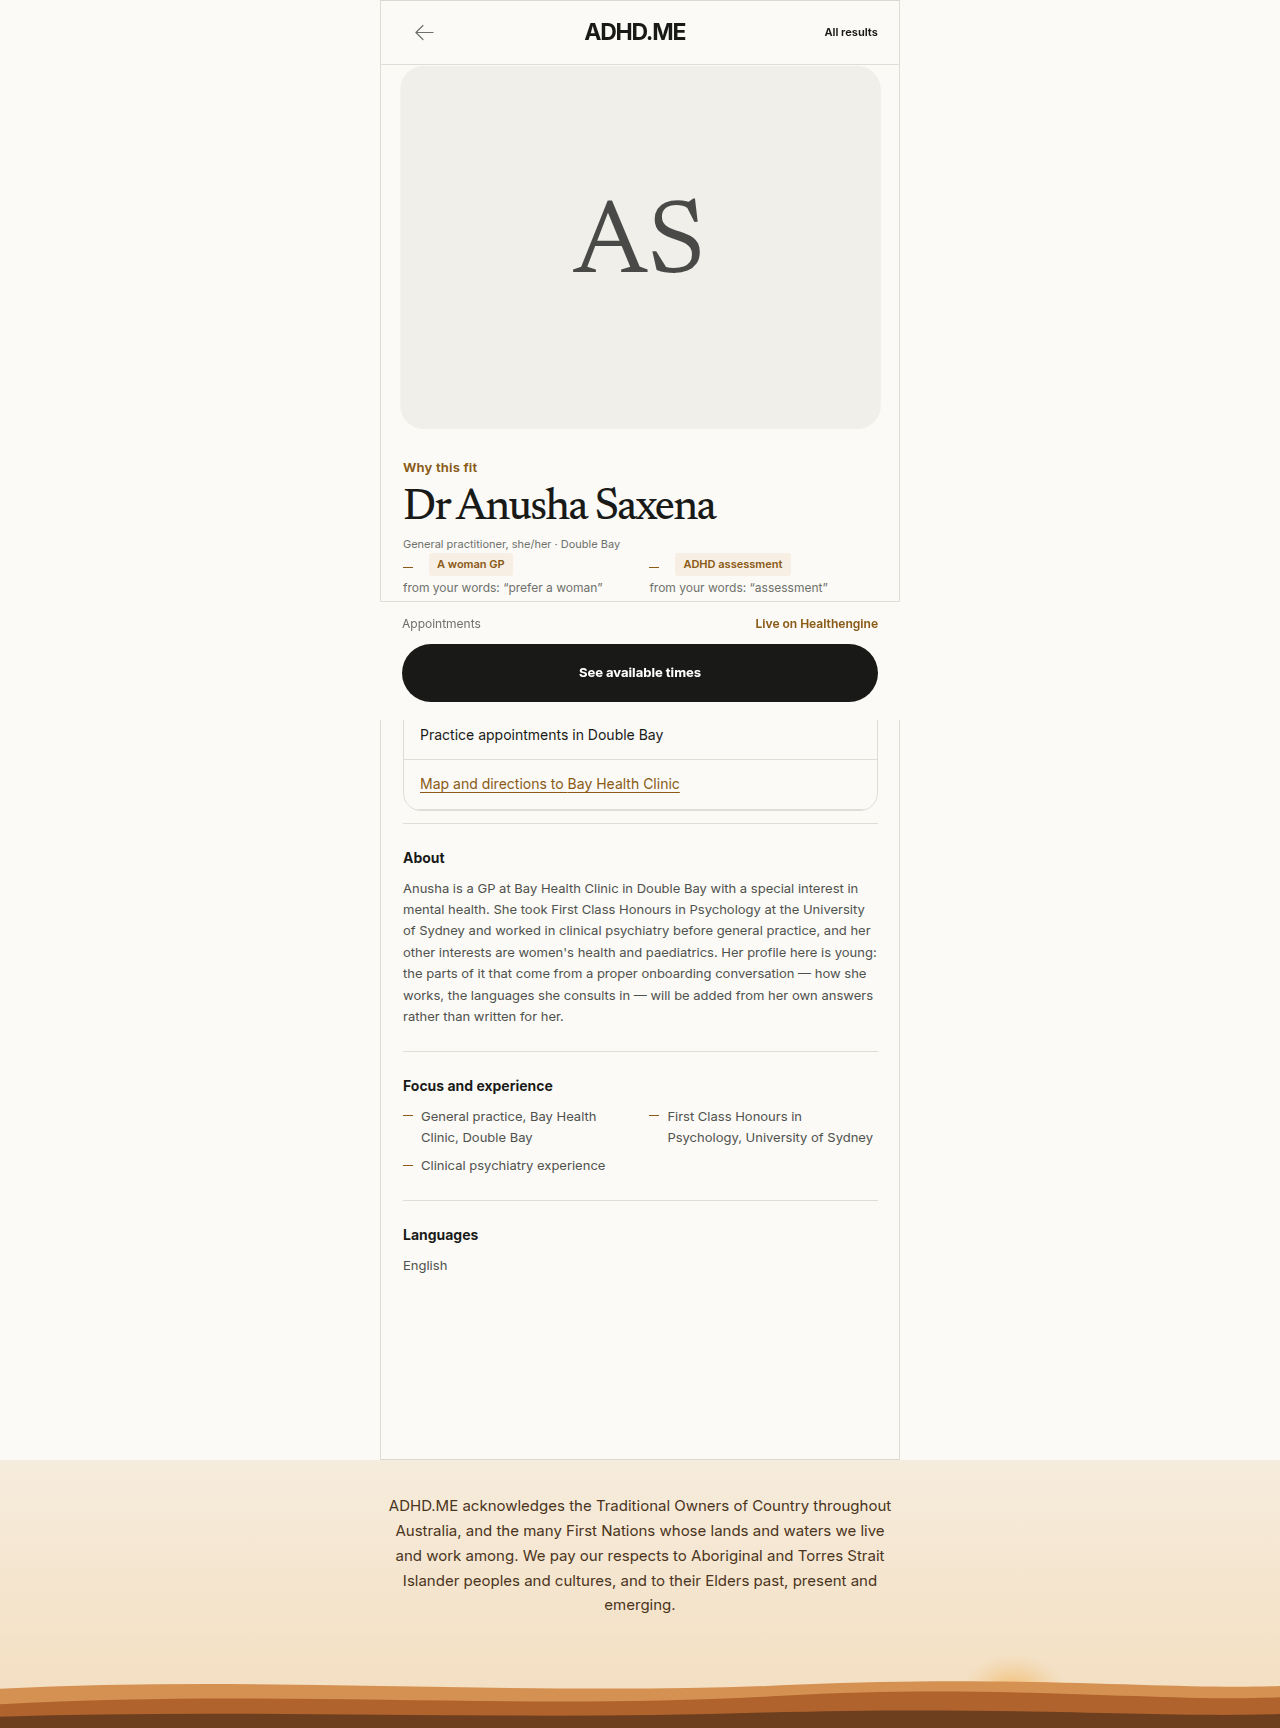
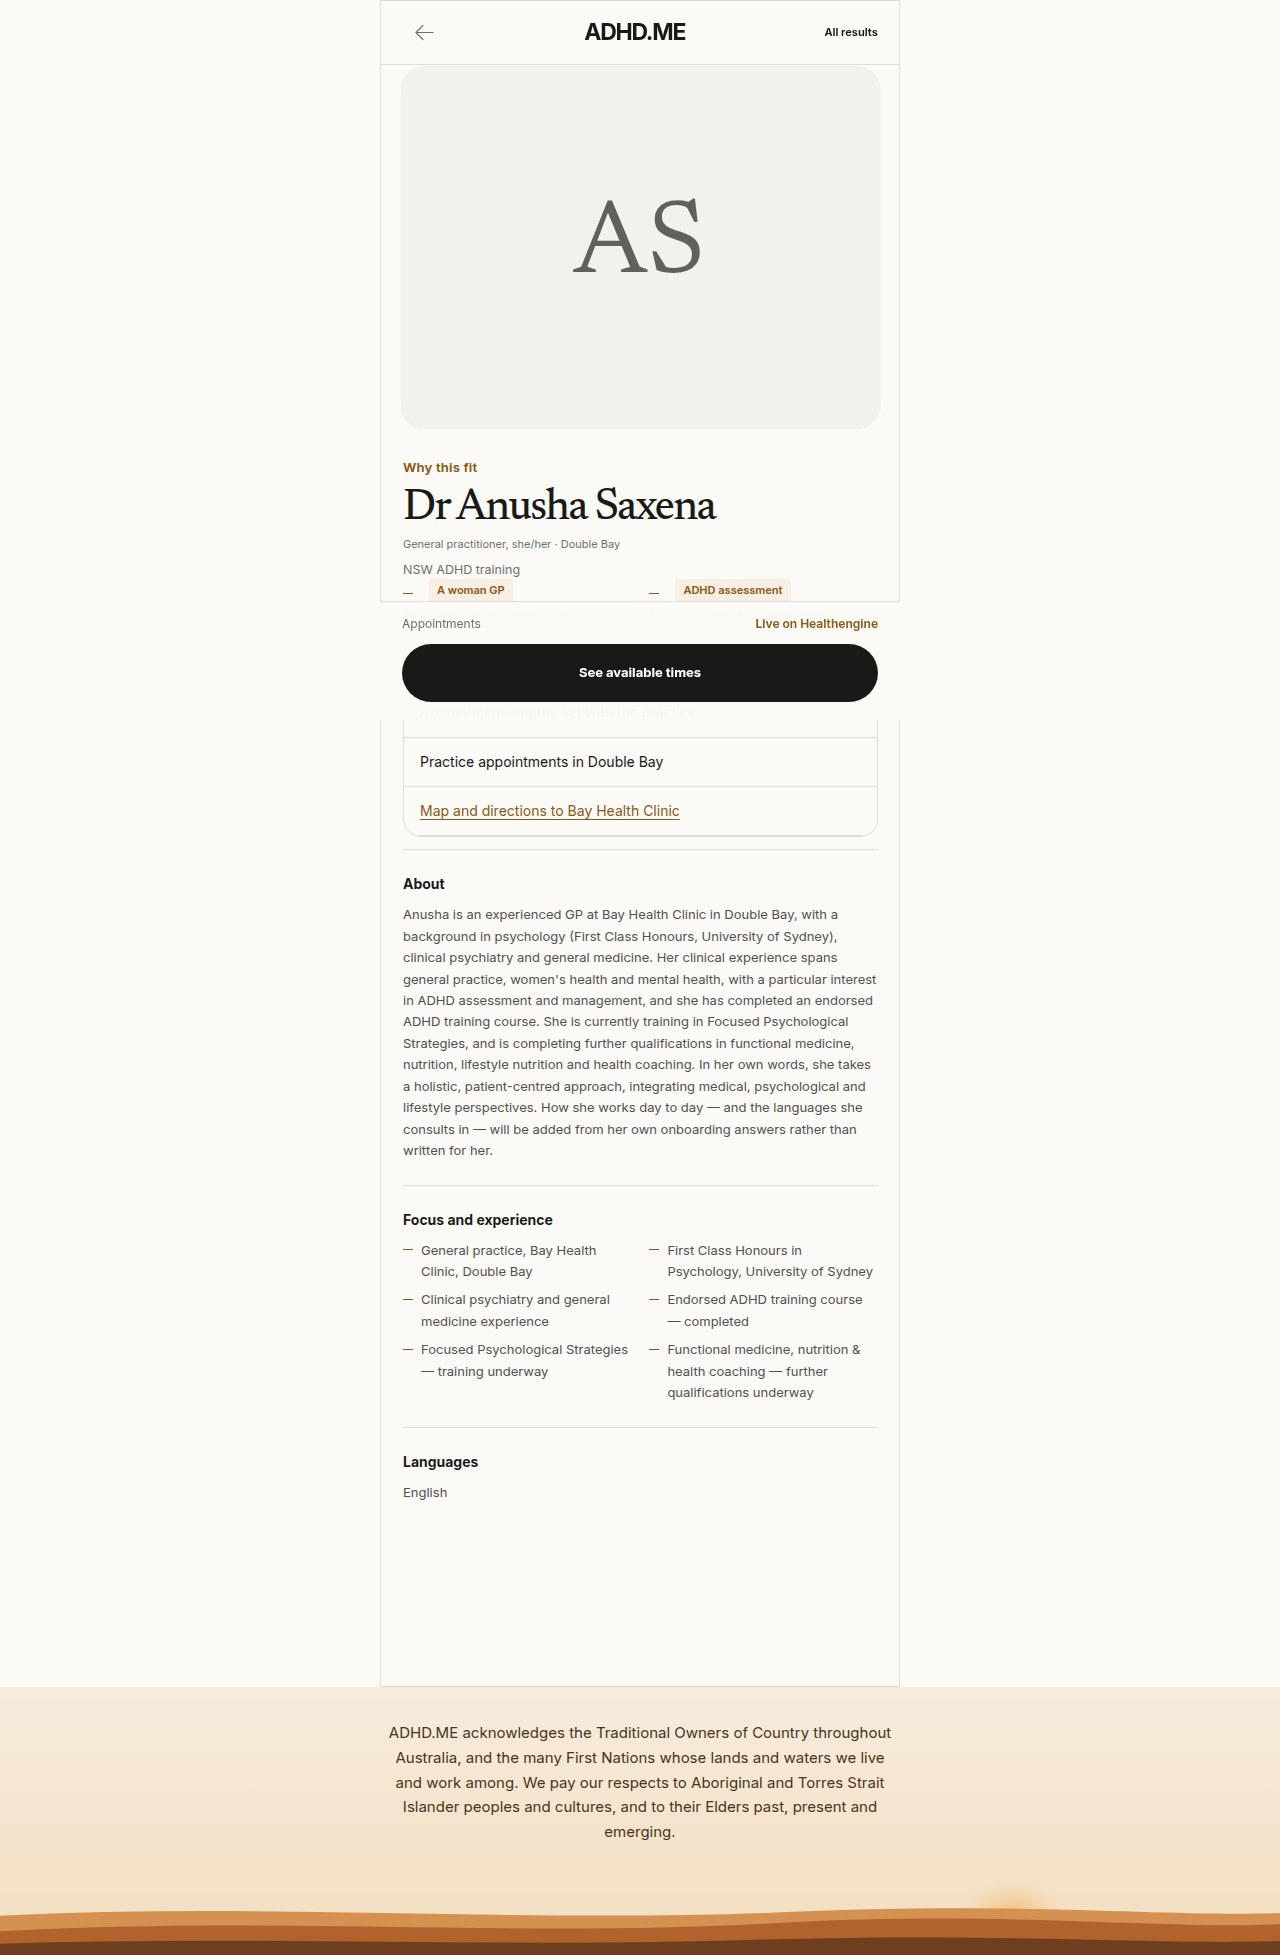
O58: Dr Anusha Saxena's professional background, supplied by the founder, lands on her entry.
Everything added is sourced to the founder's message in this session and framed
as her declaration: her background in psychology (Honours), clinical psychiatry
and general medicine; clinical experience across general practice, women's
health and mental health with a particular interest in ADHD assessment and
management; the endorsed ADHD prescriber course completed - relayed as the
nswAdhdTrained declaration, with the word 'prescriber' never rendering on a
patient surface; Focused Psychological Strategies training and the functional
medicine, nutrition and health coaching qualifications recorded as underway,
never as held; and her interest in functional and lifestyle medicine recorded
as the non-medication care area at the interest ('sometimes') grade, the same
rule her other bio interests followed. Her approach paragraph is quoted in the
about as her own words. Manner declarations stay empty behind mannerPending -
the closed-vocabulary claims remain hers to make in the onboarding interview.
Profile capture re-rendered, public-copy sweep green over every patient
surface, full pnpm verify green (208 files, 3027 tests). Vault log skipped:
Stefan-Brain is unreachable from this environment.

Claude-Session: https://claude.ai/code/session_01MuxzjJv4ZG1zbdYSqMRQBY

diff --git a/src/demo/clinicians.ts b/src/demo/clinicians.ts
@@ -303,8 +303,21 @@ export const clinicians: Clinician[] = [
      * experience; other interests women's health and paediatrics) — interest-level claims
      * are recorded at the interview's "sometimes" grade, not inflated to "often". What her
      * interview has not yet captured is left EMPTY and marked, never guessed: no manner
-     * claims (mannerPending), English only until she names her languages, no NSW-training or
+     * claims (mannerPending), English only until she names her languages, no
      * accessibility claims, and no portrait — she chose the monogram for now.
+     *
+     * O58 (2026-08-19): the founder supplied her professional background in this session, and
+     * everything it added below is sourced to that message: the endorsed ADHD prescriber
+     * course completed (relayed as `nswAdhdTrained` — the field is a declaration relayed from
+     * the founders, and this is that relay; the word "prescriber" itself never renders on a
+     * patient surface, per the no-clinical-claims register), Focused Psychological Strategies
+     * training UNDERWAY, functional medicine / nutrition / lifestyle nutrition / health
+     * coaching qualifications UNDERWAY (in-progress study renders as in progress, never as
+     * held), and her interest in functional and lifestyle medicine recorded as
+     * `non-medication` at the "sometimes" grade — the same interest-level rule as above. Her
+     * approach paragraph ("holistic, patient-centred…") is quoted in `about` AS her own
+     * description; it is not translated into manner declarations, which stay hers to make in
+     * the onboarding interview.
      */
     id: "anusha-saxena",
     name: "Dr Anusha Saxena",
@@ -318,29 +331,37 @@ export const clinicians: Clinician[] = [
     image: null,
     acceptingNewPatients: true,
     capacityDeclaredAt: "2026-08-18",
-    focus: "Mental health in general practice, women's health & paediatrics",
+    focus: "ADHD assessment & management, mental health, women's health & lifestyle",
     matchLine: "Brings a mental-health focus to general practice, with psychology training behind it.",
-    fitSignals: ["ADHD assessment", "Mental health focus", "Women's health", "Paediatrics"],
+    fitSignals: ["ADHD assessment", "Mental health focus", "Women's health", "Paediatrics", "Lifestyle & nutrition interest"],
     // Billing leads by roster convention; hers is stated by the practice until her interview
     // supplies the specifics — a fact about where the fact lives, not a guess at it.
     practicalSignals: ["Billing set by the practice", "Books online", "New patients welcome"],
     about:
-      "Anusha is a GP at Bay Health Clinic in Double Bay with a special interest in mental health. She took First Class Honours in Psychology at the University of Sydney and worked in clinical psychiatry before general practice, and her other interests are women's health and paediatrics. Her profile here is young: the parts of it that come from a proper onboarding conversation — how she works, the languages she consults in — will be added from her own answers rather than written for her.",
+      "Anusha is an experienced GP at Bay Health Clinic in Double Bay, with a background in psychology (First Class Honours, University of Sydney), clinical psychiatry and general medicine. Her clinical experience spans general practice, women's health and mental health, with a particular interest in ADHD assessment and management, and she has completed an endorsed ADHD training course. She is currently training in Focused Psychological Strategies, and is completing further qualifications in functional medicine, nutrition, lifestyle nutrition and health coaching. In her own words, she takes a holistic, patient-centred approach, integrating medical, psychological and lifestyle perspectives. How she works day to day — and the languages she consults in — will be added from her own onboarding answers rather than written for her.",
     experience: [
       "General practice, Bay Health Clinic, Double Bay",
       "First Class Honours in Psychology, University of Sydney",
-      "Clinical psychiatry experience",
+      "Clinical psychiatry and general medicine experience",
+      "Endorsed ADHD training course — completed",
+      "Focused Psychological Strategies — training underway",
+      "Functional medicine, nutrition & health coaching — further qualifications underway",
     ],
     languages: ["English"],
     careAreas: ["adhd-assessment"],
-    // Interest-level claims from her published bio sit at the "sometimes" grade until her
-    // interview upgrades or removes them — half weight, honestly earned (O2).
-    careAreasSometimes: ["depression", "anxiety", "child-adolescent-adhd"],
+    // Interest-level claims from her bio sit at the "sometimes" grade until her interview
+    // upgrades or removes them — half weight, honestly earned (O2). `non-medication` is O58's
+    // addition: her stated interest in functional and lifestyle medicine plus the Focused
+    // Psychological Strategies training underway is exactly that facet's territory
+    // ("non-medication and psychological supports"), claimed at interest grade, not above it.
+    careAreasSometimes: ["depression", "anxiety", "child-adolescent-adhd", "non-medication"],
     manner: [],
     mannerPending:
       "2026-08-18: listed ahead of her onboarding interview; manner claims are hers to make there.",
-    // nswAdhdTrained and telehealthFirstAppointment are claim-or-absent (`?: true`): omitted
-    // here because neither has been claimed, which is exactly what omission means.
+    // The endorsed ADHD prescriber course she has completed, relayed by the founder 2026-08-19
+    // — the declaration this field exists to carry. telehealthFirstAppointment stays omitted:
+    // not claimed, and omission is exactly what that means.
+    nswAdhdTrained: true,
     wheelchairAccessible: false,
     appointmentLength: "Appointment lengths set with the practice",
     booking: {
@@ -348,7 +369,7 @@ export const clinicians: Clinician[] = [
       practitionerId: "160121",
       url: "https://healthengine.com.au/doctor/nsw/double-bay/dr-anusha-saxena/p160121",
     },
-    keywords: ["adhd", "assessment", "mental health", "psychology", "psychiatry", "women", "woman", "female", "paediatrics", "children", "child", "double bay", "eastern suburbs", "depression", "anxiety", "mood"],
+    keywords: ["adhd", "assessment", "mental health", "psychology", "psychiatry", "women", "woman", "female", "paediatrics", "children", "child", "double bay", "eastern suburbs", "depression", "anxiety", "mood", "lifestyle", "nutrition", "holistic", "functional medicine", "health coaching"],
     realPerson: true,
   },
 ];

diff --git a/docs/DESIGN-QA.md b/docs/DESIGN-QA.md
@@ -319,3 +319,19 @@ actually ships in, because the staff list is empty by founder design). Taste-ski
 - [x] No motion, no new touch targets; the granted view's sentences are pinned in
   src/onboarding/applications-view.test.ts so nothing here ships unverified while the gate
   stays shut.
+
+## O58 — Dr Anusha Saxena's background, in her own supply (2026-08-19)
+
+Captures: qa/matching-o34/ re-rendered (02-anusha-profile.png now carries the founder-supplied
+background). Copy-only change on her profile; no layout, motion or control touched.
+
+- [x] Honesty gates, word by word: every new sentence is her declaration reported ("has
+  completed", "is currently training", "further qualifications underway"); in-progress study
+  renders as underway, never as held; her approach paragraph is introduced with "In her own
+  words"; "prescriber" never renders on a patient surface — the credential line stays
+  "NSW ADHD training" and the experience row says "endorsed ADHD training course".
+- [x] No manner invented: the approach prose did not become manner declarations — those stay
+  behind mannerPending for her interview, and the about still says so.
+- [x] Interest stays interest: functional/lifestyle medicine landed as `non-medication` at the
+  "sometimes" grade, the same rule her other bio interests followed in PR #4.
+- [x] Public-sweep e2e green over every patient surface after the change.

diff --git a/BUILD-STATE.md b/BUILD-STATE.md
@@ -120,7 +120,7 @@ Session logs still go to Stefan-Brain `wiki/_log/` (non-fatal if unavailable).
 > `pnpm verify` green (205 files, 2804 tests). Year plan Q1 item 4 marked done.
 
 > **O58 (founder-supplied: Dr Anusha Saxena's professional background lands on her entry) —
-> claimed 2026-08-19T13:58Z by session loop-0819n (interactive founder message, not a Routine
+> DONE 2026-08-19 by session loop-0819n (interactive founder message, not a Routine
 > firing).** The founder pasted her professional background into the build session — the
 > supply her entry has been waiting on since O34 ("the parts that come from her own answers
 > will be added from her own answers rather than written for her"). Change, all of it sourced
